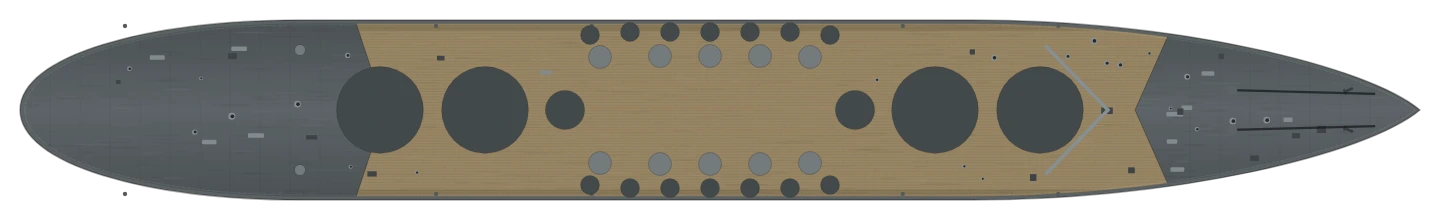
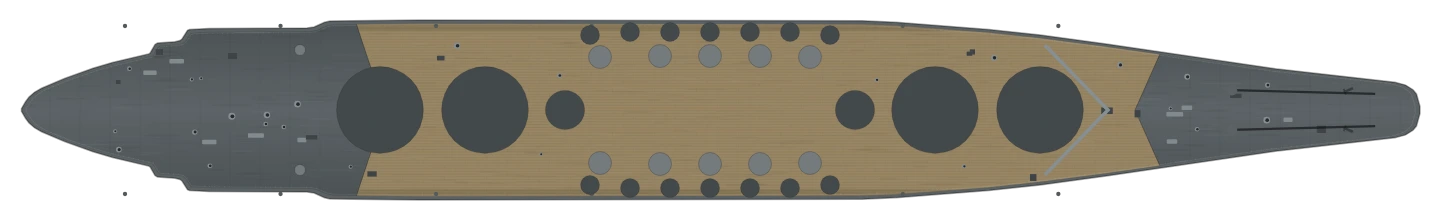
A-150: the Yamato's traced hull drawn out to her length and beam, art baked again
Claude-Session: https://claude.ai/code/session_0112riLEXGWyNCupwitxY8jz

diff --git a/index.html b/index.html
@@ -448,7 +448,9 @@ const DESIGN_LIST = [
   { id: 'bb_a150', cls: 'bb', name: 'Super Battleship', yard: 'seto', dn: 'Susanoo', model: 'A-150 design (\'Super Yamato\')', year: 1949, era: 2, L: 280, B: 36, t: 70000, kn: 30, td: 1250, armor: 460, crew: 3200, price: 300000,
     // after the owner's drawing: four twin 20-inch turrets, a 6-inch triple fore and aft of the superstructure, and rows of
     // 100 mm twin mounts down both sides of it; teak between steel ends
-    p: { bow: .32, run: .2, bowK: [0.5, 0.45], stern: 'c', teak: [-73, 91, 6, -8], house: [[-2, 52, 20]], sup: [[2, 24, 15, 6], [-20, 12, 12, 3]], fun: [[-10, 5.6, 4.4]], mast: [[-22, 'p']], boats: [[-86, 2]], cat: [[-120, -8], [-120, 8]], crane: [[-130, 0]] },
+    // the Yamato's traced hull (the owner's drawing, 12 Nov 2026) drawn out to her 280 m and 36 m, at the owner's word
+    p: { outline: [[140, 0.69], [139.3, 3.21], [138.6, 4.06], [137.1, 4.98], [135, 5.57], [111.1, 8.23], [77.3, 13.22], [64.1, 14.99], [53.8, 16.12], [35.2, 17.56], [28.5, 17.84], [-60.2, 17.99], [-78, 17.81], [-79.1, 17.55], [-81.2, 16.61], [-82.6, 16.38], [-102.2, 16.28], [-106.1, 16.08], [-106.5, 15.93], [-107.6, 14.2], [-108, 13.89], [-109, 13.64], [-112.5, 13.41], [-113, 13.11], [-114, 11.37], [-114.3, 11.22], [-121.5, 9.49], [-125.4, 8.36], [-131.1, 6.32], [-135.7, 4.36], [-137.1, 3.53], [-138.2, 2.61], [-138.9, 1.66], [-139.7, 0.28]],
+      bow: .32, run: .2, bowK: [0.5, 0.45], stern: 'c', teak: [-73, 91, 6, -8], house: [[-2, 52, 20]], sup: [[2, 24, 15, 6], [-20, 12, 12, 3]], fun: [[-10, 5.6, 4.4]], mast: [[-22, 'p']], boats: [[-86, 2]], cat: [[-120, -8], [-120, 8]], crane: [[-130, 0]] },
     slots: [sl('H', 64, 0, FWD, 'g510t'), sl('H', 43, 0, FWD, 'g510t'), sl('H', -47, 0, AFT, 'g510t'), sl('H', -68, 0, AFT, 'g510t'), sl('M', 27, 0, FWD, 'g152'), sl('M', -31, 0, AFT, 'g152'),
       ...pair('S', 22, 15, 'g102t'), ...pair('S', 14, 15.6, 'g102t'), ...pair('S', 6, 15.6, 'g102t'), ...pair('S', -2, 15.6, 'g102t'), ...pair('S', -10, 15.6, 'g102t'), ...pair('S', -18, 15.6, 'g102t'), ...pair('S', -26, 15, 'g102t'),
       ...pair('A', 18, 10.6, 'aa40'), ...pair('A', 8, 10.8, 'aa40'), ...pair('A', -2, 10.8, 'aa40'), ...pair('A', -12, 10.8, 'aa40'), ...pair('A', -24, 10.6, 'aa40'), ...pair('A', -84, 12, 'aa20')] },

diff --git a/src/game.html b/src/game.html
@@ -445,7 +445,9 @@ const DESIGN_LIST = [
   { id: 'bb_a150', cls: 'bb', name: 'Super Battleship', yard: 'seto', dn: 'Susanoo', model: 'A-150 design (\'Super Yamato\')', year: 1949, era: 2, L: 280, B: 36, t: 70000, kn: 30, td: 1250, armor: 460, crew: 3200, price: 300000,
     // after the owner's drawing: four twin 20-inch turrets, a 6-inch triple fore and aft of the superstructure, and rows of
     // 100 mm twin mounts down both sides of it; teak between steel ends
-    p: { bow: .32, run: .2, bowK: [0.5, 0.45], stern: 'c', teak: [-73, 91, 6, -8], house: [[-2, 52, 20]], sup: [[2, 24, 15, 6], [-20, 12, 12, 3]], fun: [[-10, 5.6, 4.4]], mast: [[-22, 'p']], boats: [[-86, 2]], cat: [[-120, -8], [-120, 8]], crane: [[-130, 0]] },
+    // the Yamato's traced hull (the owner's drawing, 12 Nov 2026) drawn out to her 280 m and 36 m, at the owner's word
+    p: { outline: [[140, 0.69], [139.3, 3.21], [138.6, 4.06], [137.1, 4.98], [135, 5.57], [111.1, 8.23], [77.3, 13.22], [64.1, 14.99], [53.8, 16.12], [35.2, 17.56], [28.5, 17.84], [-60.2, 17.99], [-78, 17.81], [-79.1, 17.55], [-81.2, 16.61], [-82.6, 16.38], [-102.2, 16.28], [-106.1, 16.08], [-106.5, 15.93], [-107.6, 14.2], [-108, 13.89], [-109, 13.64], [-112.5, 13.41], [-113, 13.11], [-114, 11.37], [-114.3, 11.22], [-121.5, 9.49], [-125.4, 8.36], [-131.1, 6.32], [-135.7, 4.36], [-137.1, 3.53], [-138.2, 2.61], [-138.9, 1.66], [-139.7, 0.28]],
+      bow: .32, run: .2, bowK: [0.5, 0.45], stern: 'c', teak: [-73, 91, 6, -8], house: [[-2, 52, 20]], sup: [[2, 24, 15, 6], [-20, 12, 12, 3]], fun: [[-10, 5.6, 4.4]], mast: [[-22, 'p']], boats: [[-86, 2]], cat: [[-120, -8], [-120, 8]], crane: [[-130, 0]] },
     slots: [sl('H', 64, 0, FWD, 'g510t'), sl('H', 43, 0, FWD, 'g510t'), sl('H', -47, 0, AFT, 'g510t'), sl('H', -68, 0, AFT, 'g510t'), sl('M', 27, 0, FWD, 'g152'), sl('M', -31, 0, AFT, 'g152'),
       ...pair('S', 22, 15, 'g102t'), ...pair('S', 14, 15.6, 'g102t'), ...pair('S', 6, 15.6, 'g102t'), ...pair('S', -2, 15.6, 'g102t'), ...pair('S', -10, 15.6, 'g102t'), ...pair('S', -18, 15.6, 'g102t'), ...pair('S', -26, 15, 'g102t'),
       ...pair('A', 18, 10.6, 'aa40'), ...pair('A', 8, 10.8, 'aa40'), ...pair('A', -2, 10.8, 'aa40'), ...pair('A', -12, 10.8, 'aa40'), ...pair('A', -24, 10.6, 'aa40'), ...pair('A', -84, 12, 'aa20')] },
